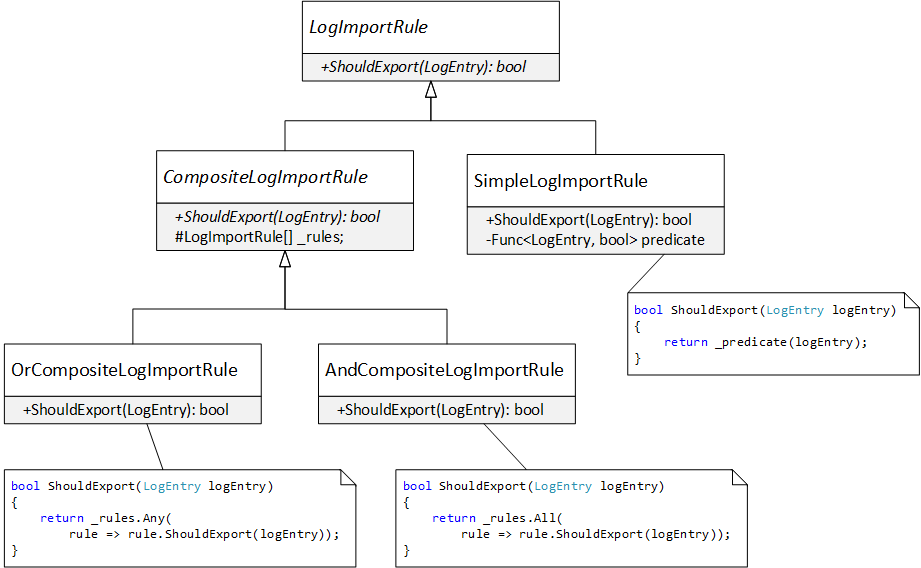
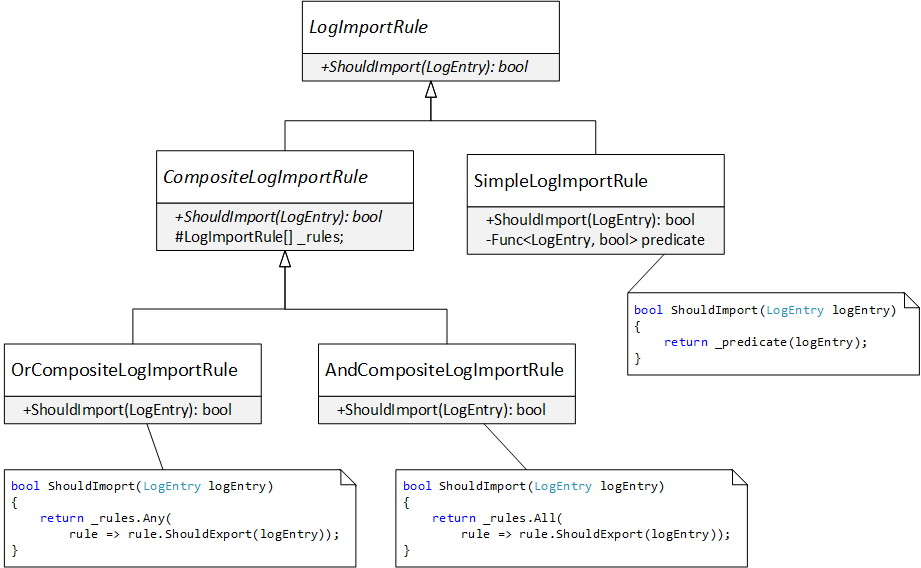
#163, #164, #165, #166 - fixed

diff --git a/Part 3 - Structural Patterns/4 - Паттерн Композит.md b/Part 3 - Structural Patterns/4 - Паттерн Композит.md
@@ -8,7 +8,7 @@
 
 При импорте лог файлов может возникнуть необходимость задавать бизнес-правила, которые будут определять, нужно ли сохранять запись или нет. Данные правила могут быть простыми: проверять важность записи по свойству `Severity`, или отвергать очень старые записи, свойство `DateTime` которого меньше определенной величины. Но поскольку такие правила должны накладываться одно на другое, то рано или поздно возникнет потребность в композиции этих правил.
 
-На помощью может прийти DDD (*) и паттерн Спецификация, который для данной задачи будет выглядеть так (рис. 4.1):
+На помощь может прийти DDD (*) и паттерн Спецификация, который для данной задачи будет выглядеть так (рис. 4.1):
 
 ![Рисунок4.1](https://github.com/SergeyTeplyakov/DesignPatternsBook/raw/master/Part%203%20-%20Structural%20Patterns/Images/ch04_Image1.png)    
 
@@ -16,65 +16,68 @@
 
 (*) DDD - Domain-Driven Design, Проблемно-ориентированное проектирование, с которым можно познакомиться в замечательной книге Эрика Эванса "Domain-Driven Design: Tackling Complexity in the Heart of Software".
 
-Спецификация позволяет гибко комбинировать бизнес-правила, создавая более сложные правила из набора простых условий. Правила моделируются классом `LogEntryRule` и его наследниками. Простые правила (`SimpleLogEntryRule`) определяются на основе предиката `Func<LogEntry, bool>`, переданного пользователем. Составные правила моделируются классом `CompisiteLogImportRule` и его наследниками. Самыми простыми составными правилами являются `AndCompositeLogImportRule` и `OrCompositeLogImportRule`, которые объединяют переданный набор правил по "И" и по "ИЛИ" соответственно.
+Спецификация позволяет гибко комбинировать бизнес-правила, создавая более сложные правила из набора простых условий. Правила моделируются классом `LogImportRule` и его наследниками. Простые правила (`SimpleLogImportRule`) определяются на основе предиката `Func<LogEntry, bool>`, переданного пользователем. Составные правила моделируются классом `CompisiteLogImportRule` и его наследниками. Самыми простыми составными правилами являются `AndCompositeLogImportRule` и `OrCompositeLogImportRule`, которые объединяют переданный набор правил по "И" и по "ИЛИ" соответственно.
 
-Для удобства работы, можно создать класс `LogRuleFactory`, с набором фабричных методов для создания и объединения правил (листинг 4.1):
+Для удобства работы, можно создать класс `ImportRuleFactory`, с набором фабричных методов для создания и объединения правил (листинг 4.1):
 
 ```csharp
-public static class LogRuleFactory
+public static class ImportRuleFactory
 {
-    public static LogImportRule Use(Func<LogEntry, bool> predicate)
+    public static LogImportRule Import(Func<LogEntry, bool> predicate)
     {
         return new SingleLogImportRule(predicate);
     }
 
-    public static LogImportRule Or(this LogImportRule left, LogImportRule right)
+    public static LogImportRule Or(this LogImportRule left, Func<LogEntry, bool> predicate)
     {
-        return new OrLogImportRule(left, right);
+        return new OrLogImportRule(left, Import(predicate));
     }
 
-    public static LogImportRule And(this LogImportRule left, LogImportRule right)
+    public static LogImportRule And(this LogImportRule left, Func<LogEntry, bool> predicate)
     {
-        return new AndLogImportRule(left, right);
+        return new AndLogImportRule(left, Import(predicate));
     }
 
     public static LogImportRule RejectOldEntriesWithLowSeverity(TimeSpan period)
     {
-        return 
-            Use(le => le is ExceptionLogEntry)
-                .Or(Use(le => (DateTime.Now - le.EntryDateTime) > period)
-                        .And(Use(le => le.Severity >= Severity.Warning)))
-                .Or(Use(le => (DateTime.Now - le.EntryDateTime) <= period));
+        return
+            // Импортируем исключения
+            Import(le => le is ExceptionLogEntry)
+                // или старые сообщения с высокой важностью
+                .Or(le => (DateTime.Now - le.EntryDateTime) > period)
+                        .And(le => le.Severity >= Severity.Warning)
+                // или новые сообщения с любой важностью
+                .Or(le => (DateTime.Now - le.EntryDateTime) <= period);
     }
 }
 ```
 
 Листинг 4.1 - Фабричный метод для создания правил сохранения записей
 
-Фабричные методы, такие как `Use`, `Or` и `End` предназначены для создания встроенного языка, который позволяет получить более читабельные правила. Основной фабричный метод - `RejectOldEntriesWithLowSeverity`, создает составное правило, которое позволит экспортировать записи с исключениями, но отвергать старые записи с низким приоритетом.
+Фабричные методы, такие как `Use`, `Or` и `And` предназначены для создания встроенного языка, который позволяет получить более читабельные правила. Основной фабричный метод - `RejectOldEntriesWithLowSeverity`, создает составное правило, которое позволит экспортировать записи с исключениями, но отвергать старые записи с низким приоритетом.
 
 Теперь, осталось написать несколько тестов, которые покажут, что данная реализация работает (листинг 4.2):
 
 ```csharp
 
-var rule = LogRuleFactory.RejectOldEntriesWithLowSeverity(
+var rule = ImportRuleFactory.RejectOldEntriesWithLowSeverity(
     TimeSpan.FromDays(7));
             
 LogEntry logEntry = new ExceptionLogEntry();
-Assert.IsTrue(rule.ShouldExport(logEntry));
+Assert.IsTrue(rule.ShouldImport(logEntry));
 
 logEntry = new SimpleLogEntry(){EntryDateTime = DateTime.Now.AddDays(-10)};
-Assert.IsFalse(rule.ShouldExport(logEntry));
+Assert.IsFalse(rule.ShouldImport(logEntry));
 
 logEntry.Severity = Severity.Critical;
-Assert.IsTrue(rule.ShouldExport(logEntry));
+Assert.IsTrue(rule.ShouldImport(logEntry));
 
 logEntry = new SimpleLogEntry()
 {
     EntryDateTime = DateTime.Now.AddDays(-5), 
     Severity = Severity.Debug
 };
-Assert.IsTrue(rule.ShouldExport(logEntry));
+Assert.IsTrue(rule.ShouldImport(logEntry));
 ```
 
 Листинг 4.2 - Тесты правила сохранения лог-файлов
@@ -88,7 +91,7 @@ Assert.IsTrue(rule.ShouldExport(logEntry));
 
 **Участники**
 
-* `Component` (`LogEntryRule`) - базовый класс компонента. Содержит операцию (`ShouldExport`), а также может содержать операции по добавлению/удалению компонентов.
+* `Component` (`LogImportRule`) - базовый класс компонента. Содержит операцию (`ShouldImport`), а также может содержать операции по добавлению/удалению компонентов.
 * `Composite` (`CompositeLogImportRule`) - составной компонент, который делегирует выполнение основной операции всем дочерним компонентам.
 * `Leaf` (`SimpleLogImportRule`) - одиночный компонент, который не может содержать дочерних элементов.
 * `Client` - потребитель компонента, который работает с одиночными и составными объектами единообразным способом.
@@ -98,7 +101,7 @@ Assert.IsTrue(rule.ShouldExport(logEntry));
 ### Интерфейс составного объекта
 При работе с паттерном Композит возникает вопрос о том, как формировать составные объекты и каким должен быть интерфейс базового класса `Component`: должен ли он содержать операции по добавлению/удалению компонентов или нет. 
 
-Здесь мы сталкиваемся с компромиссом: чем жертвовать, согласованностью интерфейса компонентов или безопасностью. С одной стороны, клиенты должны работать с простыми и составными объектами единообразным образом, что делает разумным добавление операций `Add`/`Remove` в базовый класс `Component`. С другой стороны, эти методы не могут быть нормально реализованы в классе `Leaf`, а значит такой дизайн будет нарушать принцип подстановки Лисков (*).
+Здесь мы сталкиваемся с компромиссом, чем жертвовать: согласованностью интерфейса компонентов или безопасностью. С одной стороны, клиенты должны работать с простыми и составными объектами единообразным образом, что делает разумным добавление операций `Add`/`Remove` в базовый класс `Component`. С другой стороны, эти методы не могут быть нормально реализованы в классе `Leaf`, а значит такой дизайн будет нарушать принцип подстановки Лисков (*).
 
 (*) Сноска: о принципе подстановки Лисков речь пойдет в четвертой части книги.
  
